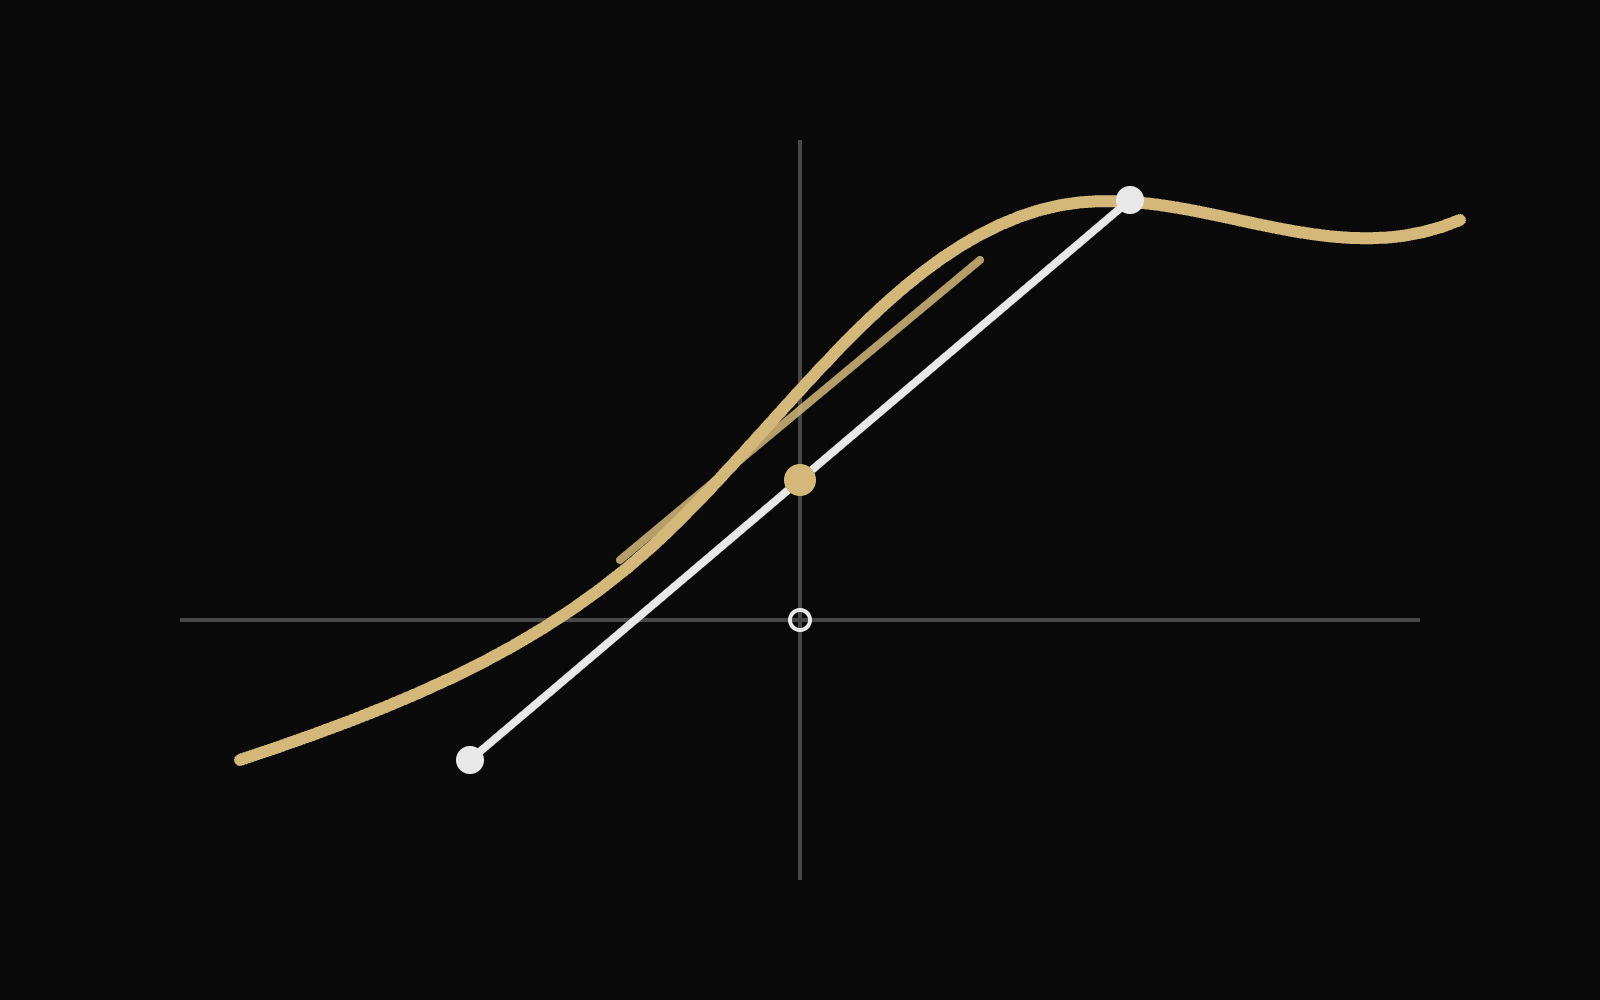
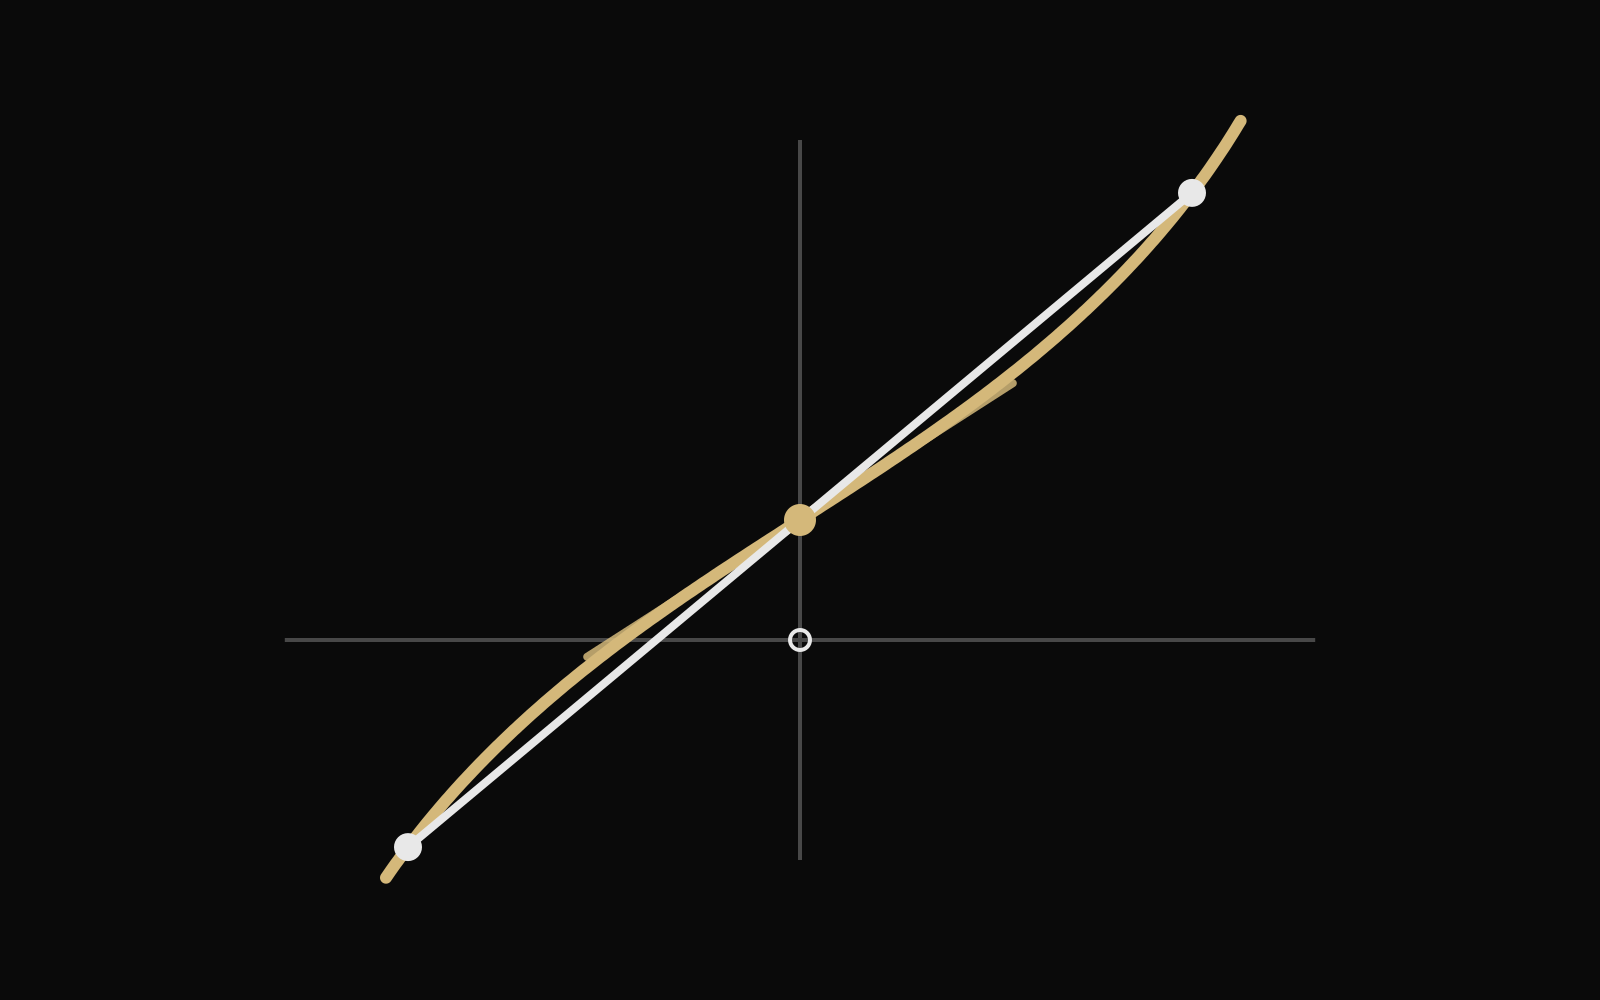
fix(exam): 審查對稱中心頁：封面切線通過中心、補第二出處、圖面拉滿畫布
封面短金線改為通過 (1, a) 的切線，並依函數重畫曲線。中英文題幹補高考題庫對照連結，端點改寫成靠近兩端，英文立方項文案對齊中文。互動圖改用獨立橫縱尺度，避免桌面版曲線縮成細線。

Changed region(s): [[0.1562, 0.124, 0.9375, 0.899], [0.125, 0.682, 0.2812, 0.775]]

diff --git a/src/systems/rendering/logSymmetryCenterExamRender.ts b/src/systems/rendering/logSymmetryCenterExamRender.ts
@@ -18,12 +18,11 @@ function frame(width: number, height: number): Rect {
 }
 
 function fit(rect: Rect) {
-  const scale = Math.min(rect.w / (X1 - X0), rect.h / (Y1 - Y0));
-  const ox = rect.x + (rect.w - (X1 - X0) * scale) / 2;
-  const oy = rect.y + (rect.h - (Y1 - Y0) * scale) / 2;
+  const sx = rect.w / (X1 - X0);
+  const sy = rect.h / (Y1 - Y0);
   return {
     point(x: number, y: number): Point {
-      return { x: ox + (x - X0) * scale, y: oy + (Y1 - y) * scale };
+      return { x: rect.x + (x - X0) * sx, y: rect.y + (Y1 - y) * sy };
     },
   };
 }

diff --git a/src/components/exam/LogSymmetryCenterExamRoot.tsx b/src/components/exam/LogSymmetryCenterExamRoot.tsx
@@ -45,7 +45,7 @@ export default function LogSymmetryCenterExamRoot({ locale }: Props) {
 
   const bendNote = reading.atZero
     ? en
-      ? 'The cubic term is off. The tangent at the center has slope 3.'
+      ? 'The cubic term is 0. The tangent at the center has slope 3.'
       : '立方項是 0。中心處的切線斜率是 3。'
     : en
       ? 'The curve has bent. The center and its tangent have not moved.'

diff --git a/src/content/en/exam/gaokao-2024-i-log-symmetry-center.md b/src/content/en/exam/gaokao-2024-i-log-symmetry-center.md
@@ -27,13 +27,13 @@ draft: false
 
 $f(x)=\ln\dfrac{x}{2-x}+ax+b(x-1)^3$ on $(0,2)$. The curve is symmetric about the point $(1,a)$. When $b=0$, the least $a$ that keeps the derivative non-negative is $-2$.
 
-The stem here follows a candidate’s recollection, in a [Zhihu walkthrough](https://zhuanlan.zhihu.com/p/2015711118853697677).
+The stem here follows a candidate’s recollection, in a [Zhihu walkthrough](https://zhuanlan.zhihu.com/p/2015711118853697677); compare the [gaokaohub entry](https://gaokaohub.com/q/item/241069179211677.html).
 
 ## Where it goes wrong
 
 The domain is centered at $x=1$, and $f(1)=a$. The center’s height is $a$, not $0$. The term $(x-1)^3$ is odd about $x=1$, so adding it leaves the center at $(1,a)$.
 
-When $b=0$, the derivative is $\dfrac{2}{x(2-x)}+a$. The product $x(2-x)$ is largest at $x=1$, where it equals $1$, so the least slope is $2+a$. The derivative stays non-negative only for $a\ge -2$. An endpoint slope is larger than the slope at $x=1$, so treating it as the least slope makes the lower bound for $a$ smaller than $-2$.
+When $b=0$, the derivative is $\dfrac{2}{x(2-x)}+a$. The product $x(2-x)$ is largest at $x=1$, where it equals $1$, so the least slope is $2+a$. The derivative stays non-negative only for $a\ge -2$. A slope near either end is larger than the slope at $x=1$, so treating it as the least slope makes the lower bound for $a$ smaller than $-2$.
 
 ## Idea
 

diff --git a/src/content/exam/gaokao-2024-i-log-symmetry-center.md b/src/content/exam/gaokao-2024-i-log-symmetry-center.md
@@ -27,13 +27,13 @@ draft: false
 
 $f(x)=\ln\dfrac{x}{2-x}+ax+b(x-1)^3$，定義域是 $(0,2)$。曲線關於點 $(1,a)$ 中心對稱。$b=0$ 時，導數處處不為負的最小 $a$ 是 $-2$。
 
-題幹來自考生回憶，見 [知乎上的拆解](https://zhuanlan.zhihu.com/p/2015711118853697677)。
+題幹來自考生回憶，見 [知乎上的拆解](https://zhuanlan.zhihu.com/p/2015711118853697677)，另可對照 [高考題庫的題目整理](https://gaokaohub.com/q/item/241069179211677.html)。
 
 ## 為什麼會錯
 
 定義域的中點是 $x=1$，而 $f(1)=a$。對稱中心的高度是 $a$，不是 $0$。$(x-1)^3$ 關於 $x=1$ 是奇的，加上去以後中心還在 $(1,a)$。
 
-$b=0$ 時，導數是 $\dfrac{2}{x(2-x)}+a$。$x(2-x)$ 在 $x=1$ 最大，等於 $1$，所以導數的最小值是 $2+a$。要導數不為負，$a$ 至少是 $-2$。端點上的斜率比 $x=1$ 更大。把它當成最小斜率，得到的 $a$ 會小於 $-2$。
+$b=0$ 時，導數是 $\dfrac{2}{x(2-x)}+a$。$x(2-x)$ 在 $x=1$ 最大，等於 $1$，所以導數的最小值是 $2+a$。要導數不為負，$a$ 至少是 $-2$。靠近兩端的斜率比 $x=1$ 更大。把它當成最小斜率，得到的 $a$ 會小於 $-2$。
 
 ## 觀念
 
